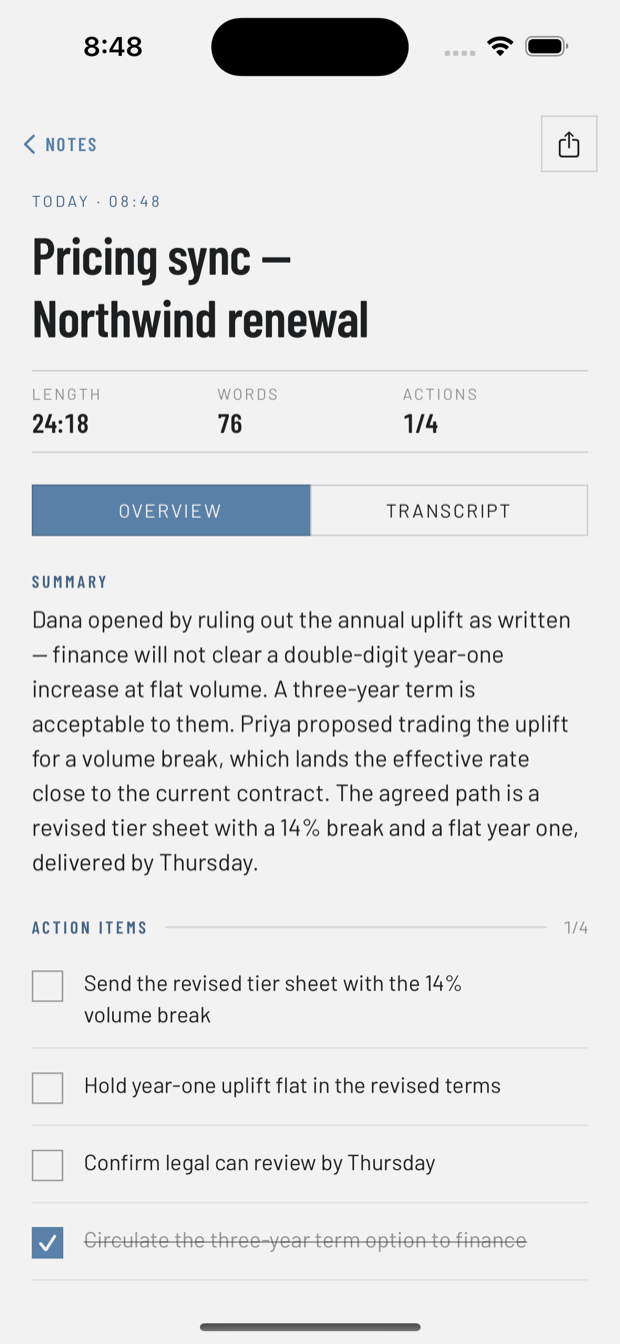
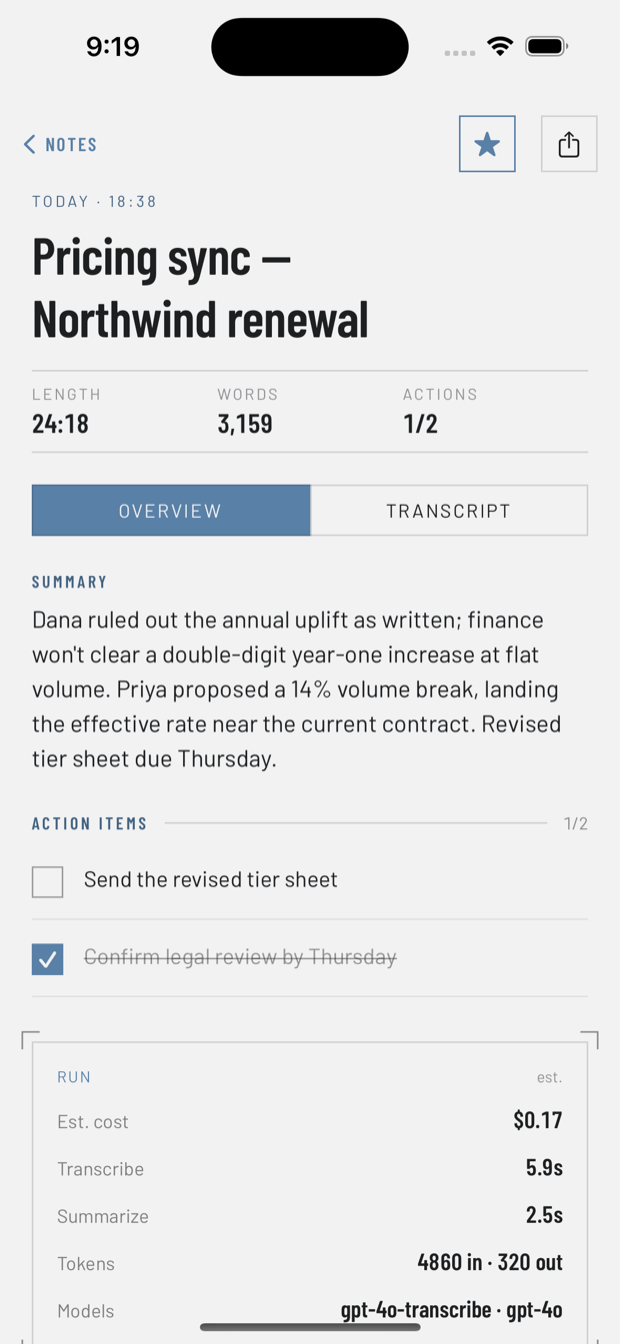
added screenshots of the app to read me

diff --git a/README.md b/README.md
@@ -10,12 +10,12 @@ No account. No backend of ours. You bring the key; you pick the provider.
 ## Screenshots
 
 <p align="center">
-  <img src="docs/screenshots/list.png" alt="Notes list grouped by day" width="24%">
-  <img src="docs/screenshots/detail.png" alt="Note detail: summary and action items" width="24%">
+  <img src="docs/screenshots/list.png" alt="Notes grouped by day with a pinned section" width="24%">
+  <img src="docs/screenshots/detail.png" alt="Note detail: summary, action items, and run metrics" width="24%">
+  <img src="docs/screenshots/usage.png" alt="Usage: spend and latency charts" width="24%">
   <img src="docs/screenshots/record.png" alt="Recording screen" width="24%">
-  <img src="docs/screenshots/settings.png" alt="Provider settings" width="24%">
 </p>
-<p align="center"><sub>Capture log · note detail · recording · provider settings</sub></p>
+<p align="center"><sub>Capture log with pinning · note detail with cost/latency · on-device usage charts · recording</sub></p>
 
 ---
 
